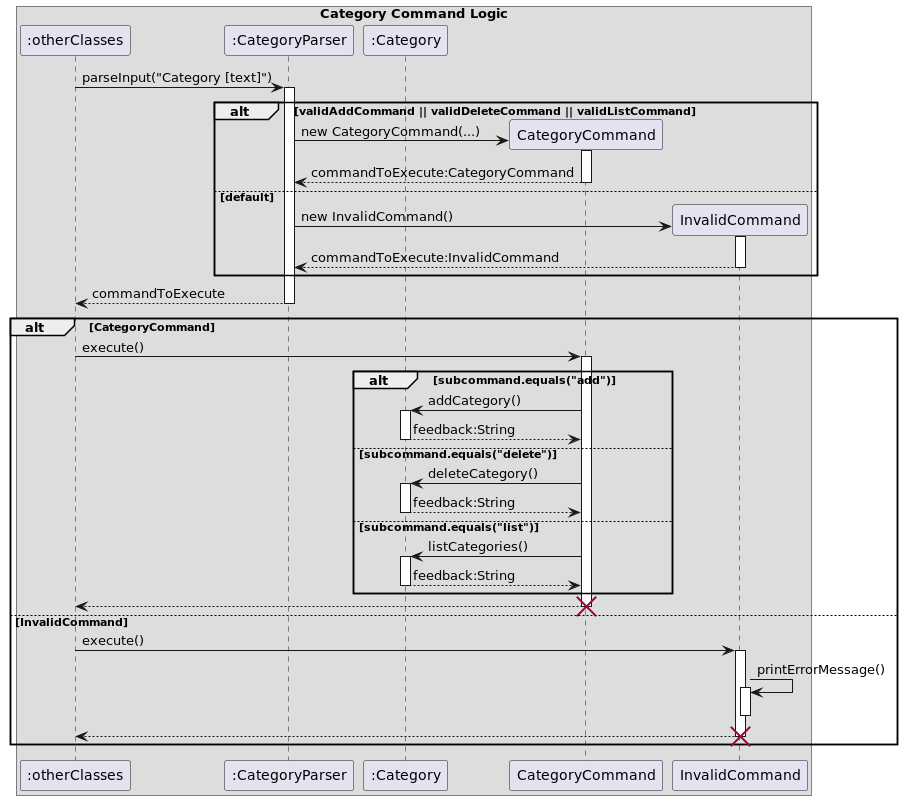
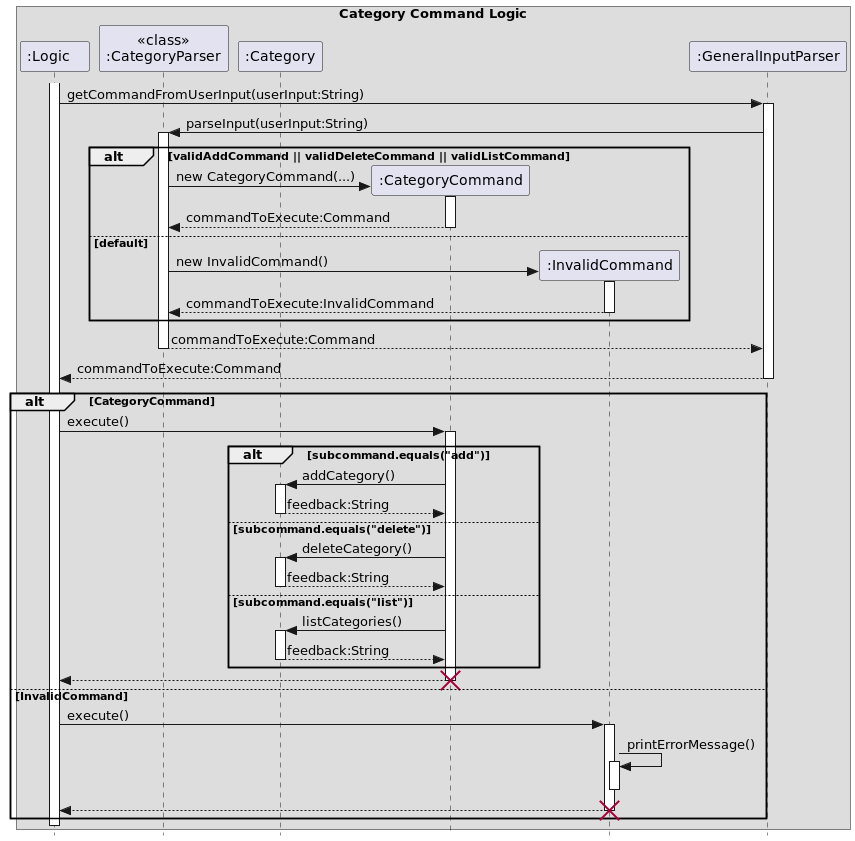
Add ppp and modify category parsing uml Made change as per DG review

Changed region(s): [[0.0, 0.0, 1.0, 1.0], [0.6386, 0.8125, 0.669, 0.8438]]

diff --git a/docs/team/yeozhishen.md b/docs/team/yeozhishen.md
@@ -1,0 +1,29 @@
+# Yeo Zhi Shen - Project Portfolio Page
+
+## Overview
+## Code contributed [RepoSense_link](https://nus-cs2113-ay2324s2.github.io/tp-dashboard/?search=yeozhishen&sort=groupTitle&sortWithin=title&timeframe=commit&mergegroup=&groupSelect=groupByRepos&breakdown=true&checkedFileTypes=docs~functional-code~test-code~other&since=2024-02-23&tabOpen=true&tabType=authorship&tabAuthor=yeozhishen&tabRepo=AY2324S2-CS2113-F14-1%2Ftp%5Bmaster%5D&authorshipIsMergeGroup=false&authorshipFileTypes=docs~functional-code~test-code~other&authorshipIsBinaryFileTypeChecked=false&authorshipIsIgnoredFilesChecked=false)
+
+## Features implemented
+### 1. Added the UI for the application
+The UI handles the user input and output. It also handles the exceptions that are thrown by the application.
+
+### 2.AddParser
+The AddParser class is used to parse the user input for the add command. 
+It returns an InValidCommandException if the user input is invalid, else it returns an AddCommand command.
+Main challenges faced was coming up with a way to dynamically parse the user input. 
+
+### 3. Added category class
+The category class is used to store the categories that the user has added. It also handles the deletion of categories.
+This class also checks if the expense entered from files/commands has a valid category.
+Main challenges faced were a result of coordinating with the other classes to preserve data integrity
+
+## Enhancements implemented
+### 1. Added dynamic parsing in AddParser
+The AddParser class now dynamically parses the user input to check if the desired option fields are entered by the user.
+The developer will just need to edit a array of options allowed and call a function in the class to retrieve the user entered option.
+
+## Contribution to team tasks
+- Setting up tooling such as github milestones and issuess, github actions.
+- maintaining issue tracker
+- Updating user docs not related to features
+### Summary of Contributions
